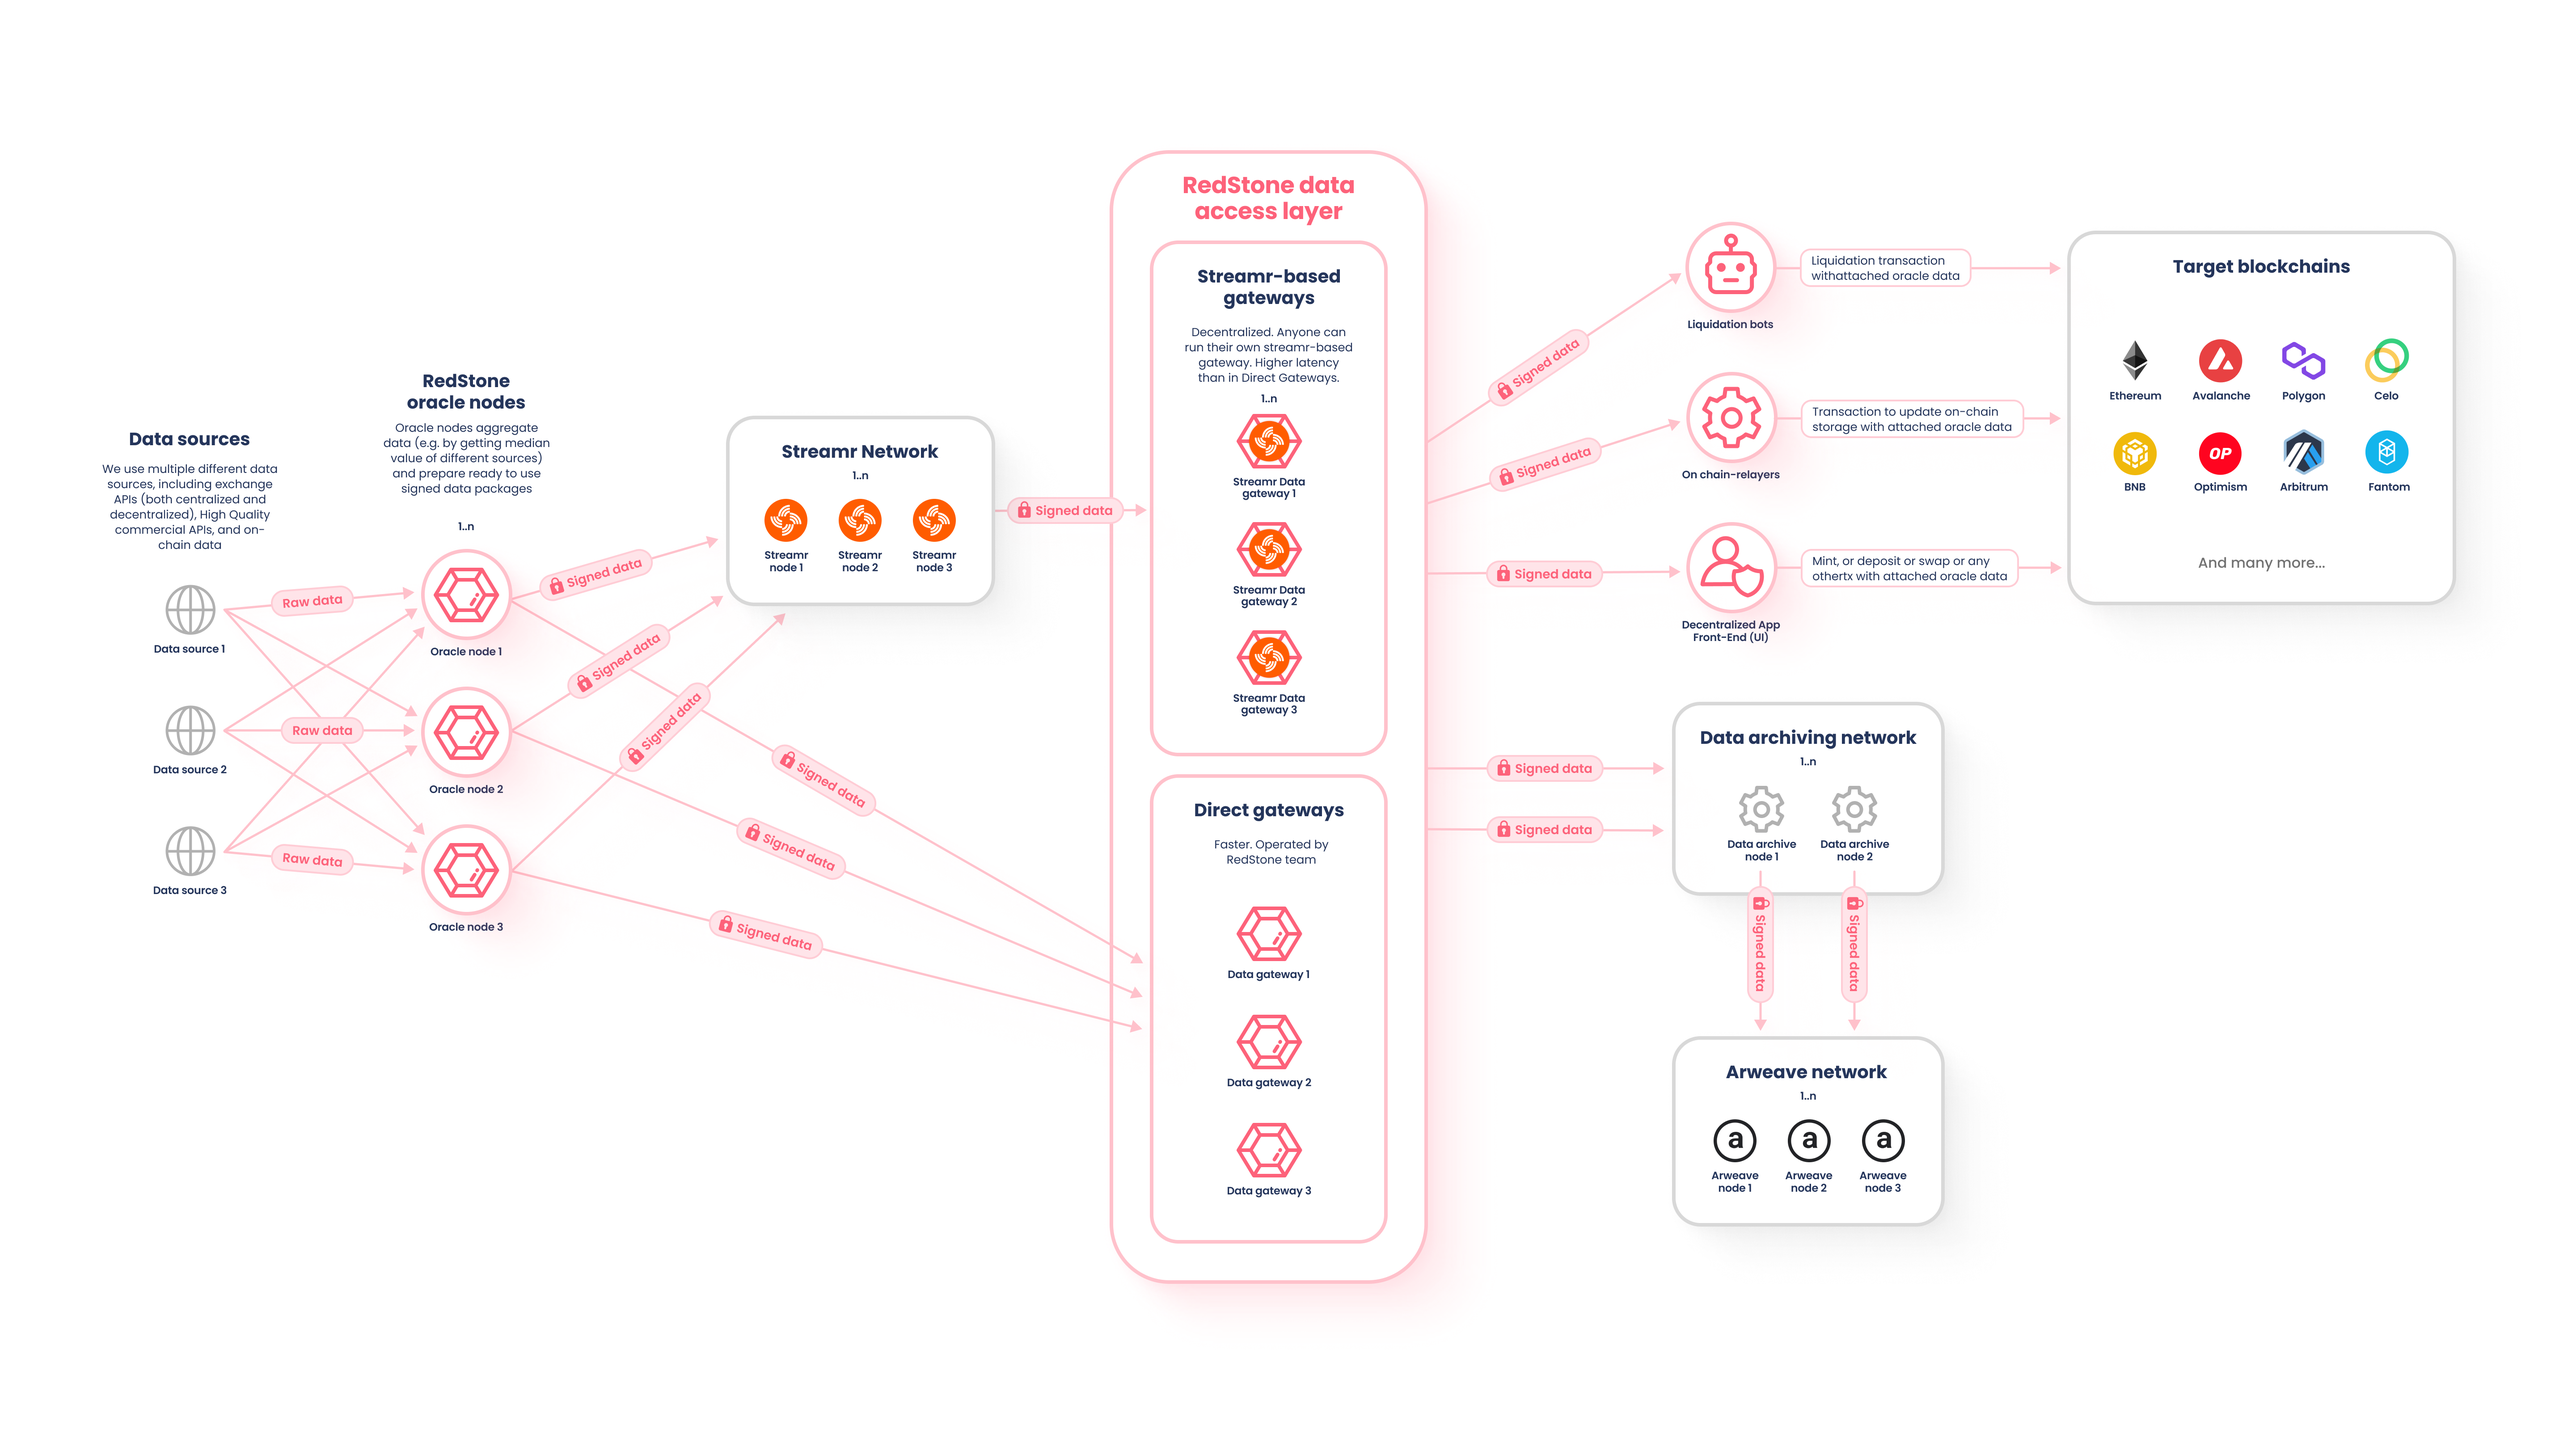
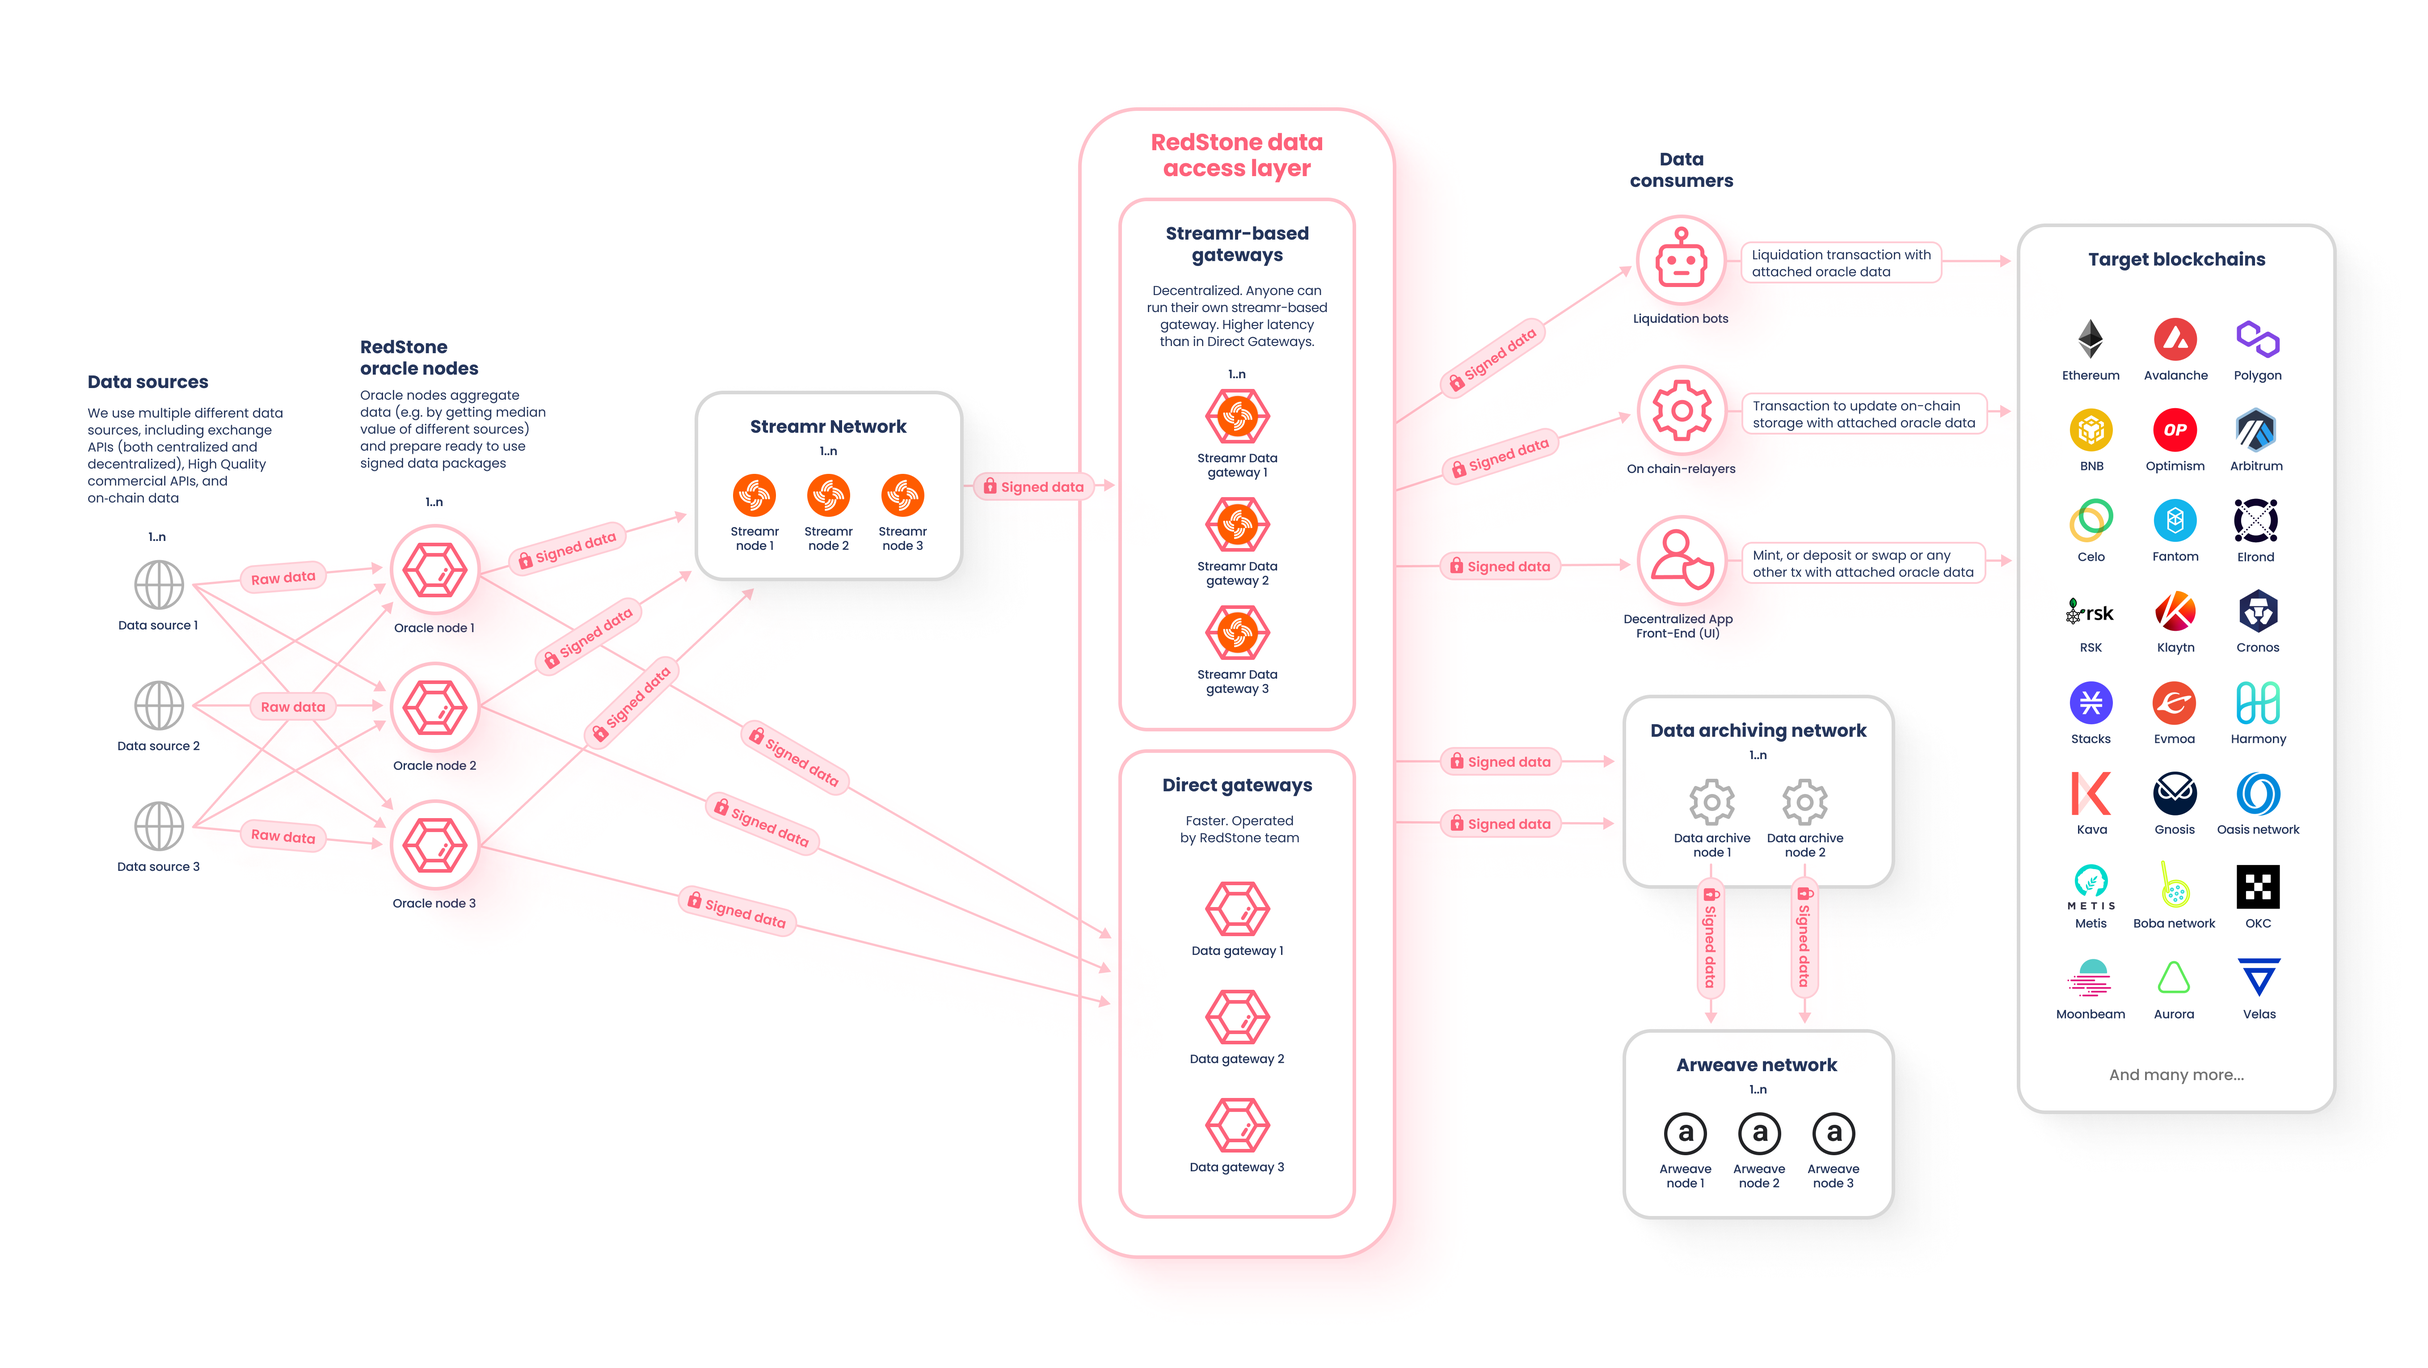
chore: updated images

diff --git a/docs/smart-contract-devs/how-it-works.md b/docs/smart-contract-devs/how-it-works.md
@@ -23,8 +23,8 @@ Depending of the smart contract architecture and business demands we can deliver
 
 ## Data Flow
 
-<a href="https://raw.githubusercontent.com/redstone-finance/redstone-docs/main/static/img/architecture-updated.png">
- <img src="/img/architecture-updated.png" target="_blank"/>
+<a href="https://raw.githubusercontent.com/redstone-finance/redstone-docs/main/static/img/architecture.png">
+ <img src="/img/architecture.png" target="_blank"/>
 </a>
 
 The price feeds comes from multiiple sources such as off-chain DEX'ed ([Binance](https://binance.com), [Coinbase](https://coinbase.com) & [Kraken](https://kraken.com), etc.), on-chain DEX'es ([Uniswap](https://uniswap.org/), [Sushiswap](https://www.sushi.com/), [Balancer](https://balancer.fi/), etc.) and aggregators ([CoinmarketCap](https://coinmarketcap.com/), [Coingecko](https://www.coingecko.com/), [Kaiko](https://www.kaiko.com/)). Currently, we've got more than [50 sources integrated](https://app.redstone.finance/#/app/sources).
@@ -41,7 +41,9 @@ Inside the protocol, the data is unpacked and verified cryptographically checkin
 
 At a top level, transferring data to an EVM environment requires packing an extra payload to a user's transaction and processing the message on-chain.
 
-[![image.png](https://i.postimg.cc/5NZSqtFT/image.png)](https://postimg.cc/xc3m9n53)
+<a href="https://raw.githubusercontent.com/redstone-finance/redstone-docs/main/static/img/redstone-tx-wrapping.png">
+ <img src="/img/redstone-tx-wrapping.png" target="_blank"/>
+</a>
 
 ### Data packing (off-chain data encoding)
 
@@ -49,15 +51,6 @@ At a top level, transferring data to an EVM environment requires packing an extr
 2. Data is packed into a message according to the following structure
 
 ![redstone-tx-payload-improved-2](https://user-images.githubusercontent.com/48165439/196044365-8cb3e020-56f4-46cd-b058-105772aca3a5.png)
-
-<!---
-- `TX_PAYLOAD` = `[DATA_PACKAGES][UNSIGNED_METADATA]`
-  - `UNSIGNED_METADATA` = `[ANY_MESSAGE][MESSAGE_BYTE_SIZE:3b][REDSTONE_MARKER:9b]`
-    - `REDSTONE_MARKER` = `0x000002ed57011e0000`
-  - `DATA_PACKAGES` = `[DATA_PACKAGE[0]]..[DATA_PACKAGE[N]][NUMBER_OF_DATA_PACKAGES:2b]`
-    - `DATA_PACKAGE` = `[DATA_POINTS][TIMESTAMP:6b][DATA_POINT_VALUE_BYTE_SIZE:4b][DATA_POINTS_COUNT:3b][SIGNATURE:65b]`
-      - `DATA_POINT` = `[DATA_POINT_VALUE][DATA_FEED_ID:32b]`
--->
 
 3. The package is appended to the original transaction message, signed and submitted to the network
 
